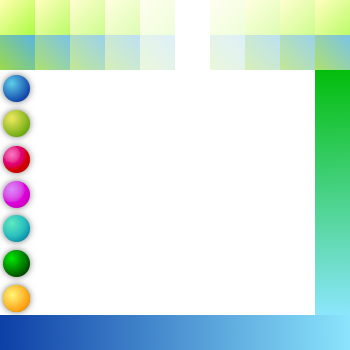
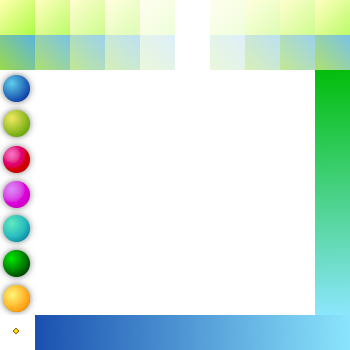
using entity modifiers to animate path breadcrumbs

Changed region(s): [[0.0, 0.8857, 0.1143, 1.0]]

diff --git a/src/com/ladushki/lineiki/PlayingField.java b/src/com/ladushki/lineiki/PlayingField.java
@@ -7,10 +7,14 @@ import java.util.ArrayList;
 import java.util.Collection;
 import java.util.Random;
 
+import javax.microedition.khronos.opengles.GL10;
+
 import org.anddev.andengine.entity.Entity;
 import org.anddev.andengine.entity.IEntity;
 import org.anddev.andengine.entity.modifier.AlphaModifier;
 import org.anddev.andengine.entity.modifier.DelayModifier;
+import org.anddev.andengine.entity.modifier.FadeInModifier;
+import org.anddev.andengine.entity.modifier.FadeOutModifier;
 import org.anddev.andengine.entity.modifier.LoopEntityModifier;
 import org.anddev.andengine.entity.modifier.MoveModifier;
 import org.anddev.andengine.entity.modifier.ParallelEntityModifier;
@@ -126,6 +130,50 @@ public class PlayingField extends Entity implements ITouchArea {
 		this.mEvent = pEvent;
 	}
 	
+	private void createPathBreadcrumb(int x, int y, int num, int totalDots) {
+		AnimatedSprite dot = new AnimatedSprite(x, y, mTextureRegion);
+		dot.setCurrentTileIndex(90);
+		
+		dot.setAlpha(0.0f);
+		dot.setBlendFunction(GL10.GL_SRC_ALPHA, GL10.GL_ONE_MINUS_SRC_ALPHA);
+
+		dot.registerEntityModifier(new SequenceEntityModifier(
+					new IEntityModifierListener() {
+
+						@Override
+						public void onModifierStarted(
+								IModifier<IEntity> pModifier, IEntity pItem) {
+							// TODO Auto-generated method stub
+							
+						}
+
+						@Override
+						public void onModifierFinished(
+								IModifier<IEntity> pModifier, IEntity pItem) {
+							
+							final IEntity item = pItem;
+							mParentActivity.runOnUiThread(new Runnable() {
+								@Override
+								public void run() {
+									//Toast.makeText(mParentActivity, "Sequence finished.", Toast.LENGTH_SHORT).show();
+									//pItem.clearEntityModifiers();
+									detachChild(item);
+								}
+							});
+
+							
+						}
+					},
+					new DelayModifier(num * 0.1f),
+					new AlphaModifier(0.3f, 0.0f, 1.0f),
+					new DelayModifier(0.1f*totalDots)//,
+					//new AlphaModifier(0.3f, 1.0f, 0.0f)
+				)
+		);
+		
+		attachChild(dot);
+	}
+	
 	public void animateMovingBall(Point pSource, Point pDest, Point [] pPath) {
 		Point srcPt = pSource;
 		Point destPt = pDest;
@@ -142,24 +190,21 @@ public class PlayingField extends Entity implements ITouchArea {
 		
 		final BallSprite ball = src.getBall();
 		
-		for (int i = 0; i < pPath.length; i++) {
+		int dotNum = 0;
+		
+		for (int i = pPath.length - 1; i >= 0; i--) {
 			Point p = pPath[i];
-			AnimatedSprite dot = new AnimatedSprite(p.x*35, p.y*35,mTextureRegion);
-			dot.setCurrentTileIndex(90);
-			attachChild(dot);
+			createPathBreadcrumb(p.x*35, p.y*35, dotNum++, pPath.length*2);
 			
-			if (i < pPath.length - 1) {
-				Point next = pPath[i+1];
+			if (i > 0) {
+				Point next = pPath[i-1];
 				p.x = (p.x*35 + next.x*35)/2;
 				p.y = (p.y*35 + next.y*35)/2;
-				dot = new AnimatedSprite(p.x, p.y,mTextureRegion);
-				dot.setCurrentTileIndex(90);
-				
-				attachChild(dot);
+				createPathBreadcrumb(p.x, p.y, dotNum++, pPath.length*2);
 			}
 		}
 		
-		final Path path = new Path(5).to(-5, -5).to(-5, 5).to(5, 5).to(5, -5).to(-5, -5);
+		//final Path path = new Path(5).to(-5, -5).to(-5, 5).to(5, 5).to(5, -5).to(-5, -5);
 
 		/* Add the proper animation when a waypoint of the path is passed. */
 		//ball.registerEntityModifier(new MoveModifier(5, srcPt.x*32.0f, destPt.x*32.0f, srcPt.y*32.0f, destPt.y*32.0f)
@@ -194,7 +239,7 @@ public class PlayingField extends Entity implements ITouchArea {
 		}*/
 		dest.setBall(src.detachBall());
 		
-		ball.setZIndex(999);
+		//ball.setZIndex(999);
 
 	}
 }
